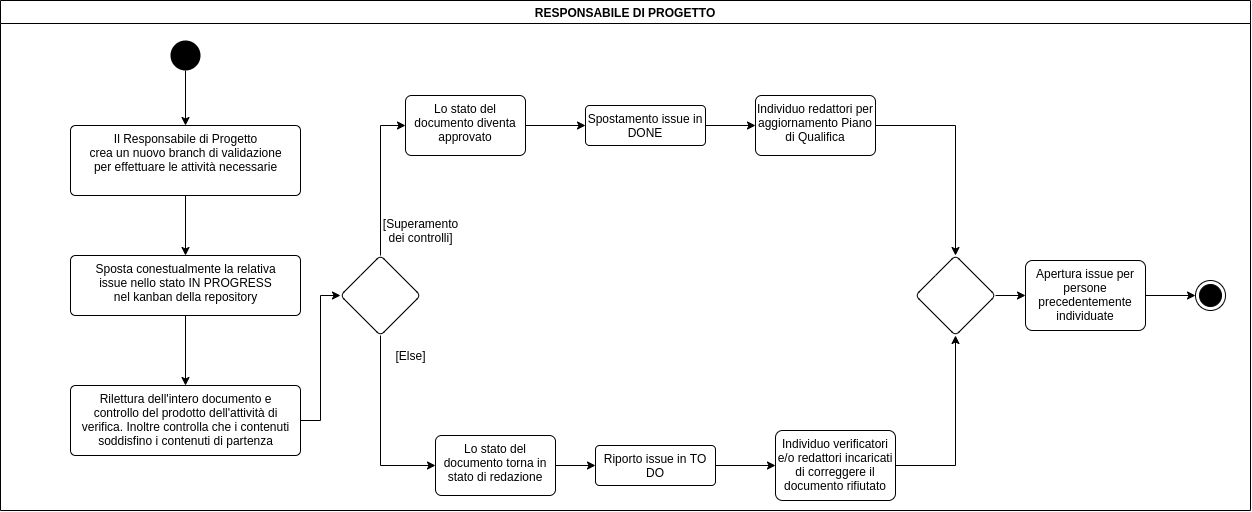
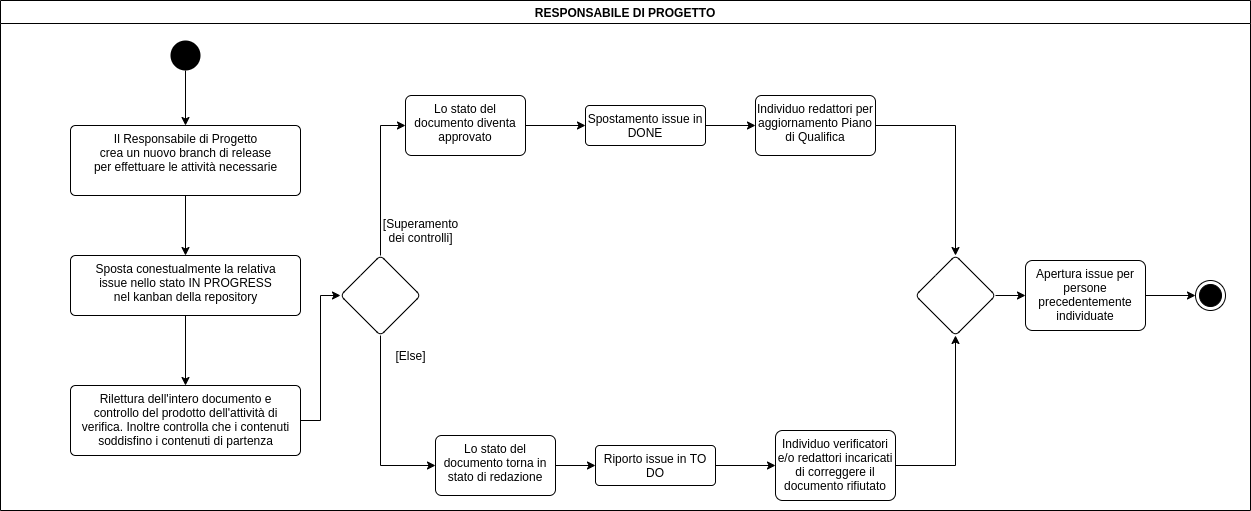
aggiornamento processi supporto

diff --git a/Interni/NormeDiProgetto/res/sections/processi_supporto/gestione_configurazione.tex b/Interni/NormeDiProgetto/res/sections/processi_supporto/gestione_configurazione.tex
@@ -60,10 +60,6 @@ In particolare saranno presenti i seguenti branch:
     \item \textbf{bugfix/nome-feature:} rami uscenti dal develop usati per sistemare errori rilevati successivamente alla chiusura del relativo feature-branch.
                                        Sono usati per la correzione dell'errore trovato, una volta inserita la correzione devono convergere in develop. E' necessario
                                        che il nome del bugfix corrisponda al nome della determinata feature a cui si rivolge la correzione.
-    \item \textbf{verifica/oggetto:} rami uscenti dal develop creati dai verificatori durante il processo di verifica su un determinato oggetto. Una volta terminata la verifica del documento
-                                     è necessario eliminare il branch e farlo convergere in develop.
-    \item \textbf{validazione/oggetto:} rami uscenti da develop creati dai Responsabili di Progetto per validare un determinato documento.
-                                        Stesso ciclo di vita dei branch di verifica.
 \end{itemize}
 Riassumendo ogni modifica al codice deve partire da un branch di feature o di bugfix, strettamente collegato ad uno o più membri del gruppo, e convergere in develop solamente dopo
 aver superato le verifiche necessarie per quella specifica attività.
